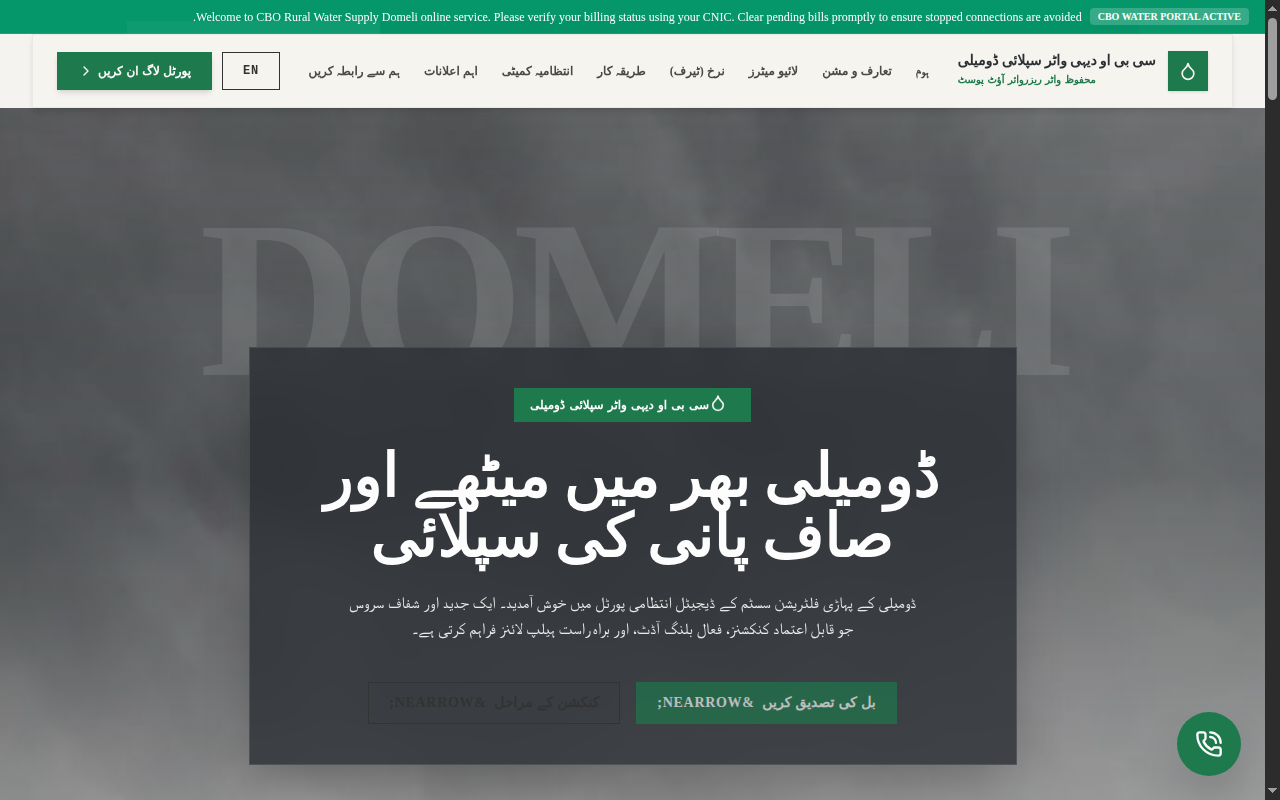
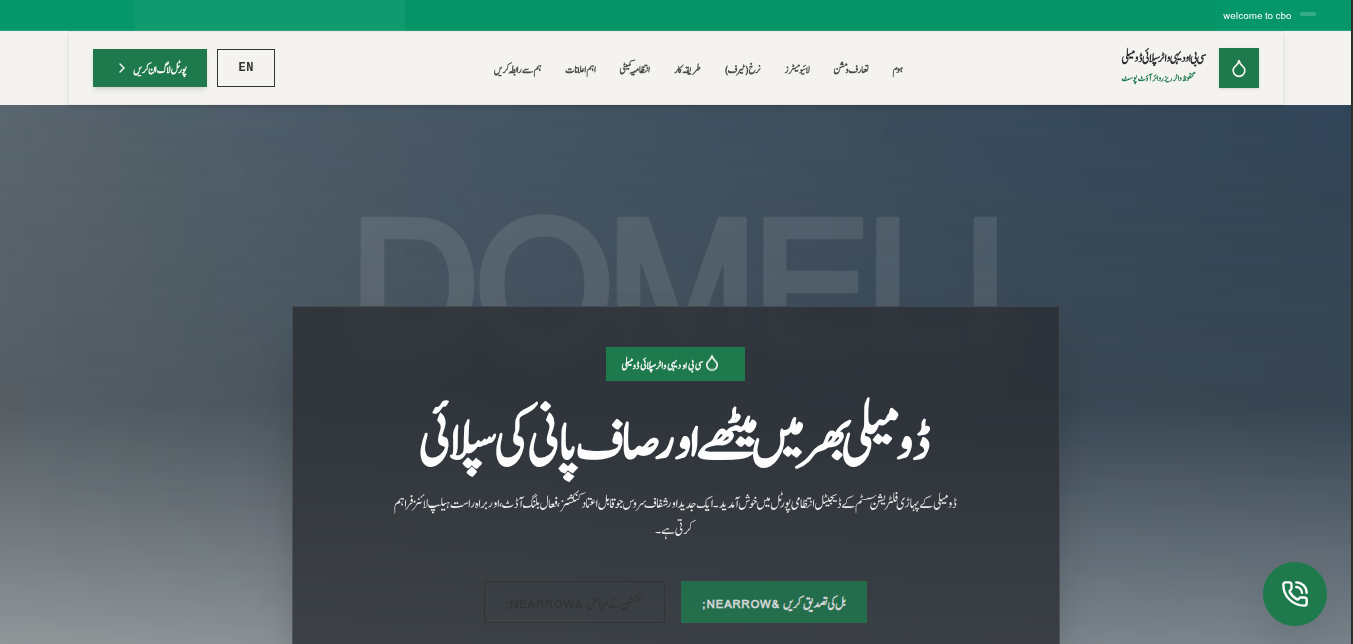
Upload captured project screenshots and link them to portfolio database

diff --git a/src/data/hassaanData.ts b/src/data/hassaanData.ts
@@ -162,7 +162,7 @@ export const staticProjects: LocalProject[] = [
     desc: "An autonomous agentic AI framework designed to orchestrate recursive prompt loops, validate cognitive LLM processes, and run automated script executions.",
     url: "https://github.com/hklogs/AutonAI",
     tech: ["Python", "TypeScript", "LangChain", "Gemini API"],
-    thumbnail: "/sentient_ai_thumb.jpg",
+    thumbnail: "/sentient_ai_thumb.png",
     usecase: "Enables developers to test autonomous AI workflows, execute local bash tasks safely, and debug agentic logic loops.",
     working: "Deploys LangChain agent execution nodes, hooks into local OS CLI bindings, and evaluates agent performance metrics."
   },
@@ -171,7 +171,7 @@ export const staticProjects: LocalProject[] = [
     desc: "A Progressive Web Application engineered for rural water scheme committees and consumer billing administrators. It manages consumer records, audits payment queues, tracks water tankers, and generates monthly billing schedules. Designed with an offline-first service worker, it allows rural operators to update ledger statuses in remote zones.",
     url: "https://github.com/hklogs/cboruralwater",
     tech: ["React", "Express", "Firebase", "PostgreSQL", "PWA"],
-    thumbnail: "/cbo_water_thumb.jpg",
+    thumbnail: "/cbo_water_thumb.png",
     usecase: "Facilitates clean water administration and consumer ledger coordination for remote rural committees, preventing billing disputes and operational leakages.",
     working: "Leverages an offline-first service worker to cache user schemas and ledger transactions locally using IndexedDB. Enqueues API payloads and syncs them automatically to a cloud PostgreSQL database via Firebase Function webhooks once network signals are detected."
   },
@@ -180,7 +180,7 @@ export const staticProjects: LocalProject[] = [
     desc: "A luxury real-estate listing marketplace designed for property dealers and home buyers. It showcases properties in a responsive grid, processes dynamic price filtrations, and coordinates agent tour schedules. It prevents overlapping calendar reservations and validates address listings using Google Maps API overlays.",
     url: "https://github.com/hklogs/ultd-realestate",
     tech: ["Next.js", "React", "Supabase", "Tailwind CSS"],
-    thumbnail: "",
+    thumbnail: "/ultd_realestate_thumb.png",
     usecase: "Allows luxury real estate brokers to showcase properties and coordinate customer visits without overlapping appointments or manual geolocation mapping.",
     working: "Utilizes Next.js App Router and Supabase Database for listing synchronization. Integrates Google Maps API overlays for property geolocation lookups and coordinates scheduling via database triggers to avoid slot double-booking."
   },
@@ -190,7 +190,7 @@ export const staticProjects: LocalProject[] = [
     url: "https://github.com/hklogs/ai-recruitment-auditor",
     vercelUrl: "https://ai-recruitment-auditor.vercel.app",
     tech: ["Next.js", "React", "Gemini API", "Tailwind CSS"],
-    thumbnail: "/recruiter_ai_thumb.jpg",
+    thumbnail: "/recruiter_ai_thumb.png",
     usecase: "Streamlines manual CV scanning for hiring leads, matching technical skills and producing customized SQA test criteria for applicant verification.",
     working: "Parses text from resume PDFs using a server-side parser. The structured CV data is matched against target job configurations via Gemini API prompts, calculating compatibility weightings and rendering SQA test matrices."
   },
@@ -255,7 +255,7 @@ export const staticProjects: LocalProject[] = [
     desc: "A task prioritization PWA built for software engineers and project managers. By evaluating importance and difficulty inputs, it calculates task weights to organize daily workflows. Designed with a clean minimal UI, it runs offline and automatically syncs local tasks with remote cloud targets.",
     url: "https://github.com/hklogs/Prioriti",
     tech: ["HTML5", "CSS3", "JavaScript", "PWA Workers"],
-    thumbnail: "/prioriti_task_thumb.jpg",
+    thumbnail: "/prioriti_task_thumb.png",
     usecase: "Helps busy engineers organize priority lists mathematically based on urgency and complexity matrices.",
     working: "Calculates task weight using a custom mathematical formula, updates local arrays in localStorage, and triggers service worker sync queues to update remote cloud databases."
   },
@@ -264,7 +264,7 @@ export const staticProjects: LocalProject[] = [
     desc: "A financial dashboard developed for individual budget coordinators. It tracks expense categories, generates monthly saving projections, and displays interactive charts. It checks transaction inputs against budget boundary limits to prevent budget overrun exceptions.",
     url: "https://github.com/hklogs/PocketMint",
     tech: ["React", "Vite", "Chart.js", "Tailwind CSS"],
-    thumbnail: "/pocketmint_tracker_thumb.jpg",
+    thumbnail: "/pocketmint_tracker_thumb.png",
     usecase: "Allows individuals to track categorize expenses and receive warnings before exceeding monthly budgets.",
     working: "Aggregates expense inputs, renders graphical timelines via Chart.js, and validates purchase values against budget thresholds to raise boundary exception alerts."
   },
@@ -319,7 +319,7 @@ export const staticProjects: LocalProject[] = [
     desc: "Crazy Closers (Genius Leads LLC) — Brand Gateway lead-gen & compliance site providing high-performance landing pages and input validation tests.",
     url: "https://github.com/hklogs/crazy-closers",
     tech: ["TypeScript", "Next.js", "Tailwind CSS", "Framer Motion"],
-    thumbnail: "",
+    thumbnail: "/primus_leads_thumb.png",
     usecase: "Generates verified B2B customer leads and automates initial outreach validation sequences for brand growth.",
     working: "Scrapes public directory listings, cleans contact data strings using local expressions, and personalizes outreach emails."
   },
@@ -328,7 +328,7 @@ export const staticProjects: LocalProject[] = [
     desc: "Enterprise administrative dashboard managing homeowner-contractor connections, subscription tiers, and payout ledgers.",
     url: "https://github.com/hklogs/referral-close-llc",
     tech: ["TypeScript", "React", "PostgreSQL", "Tailwind CSS"],
-    thumbnail: "",
+    thumbnail: "/primus_leads_llc_thumb.png",
     usecase: "Allows administrators of ReferralClose to monitor overall lead distributions, track payout cycles, and adjust tier parameters.",
     working: "Collects transaction records from contractor signups, updates PostgreSQL balances, and exposes metrics in a dashboard."
   },
@@ -382,7 +382,7 @@ export const staticProjects: LocalProject[] = [
     desc: "A customer-facing home services marketplace allowing homeowners to post project requirements, search trades, and book appointments.",
     url: "https://github.com/hklogs/referralclose-home-service-marketplace",
     tech: ["TypeScript", "Next.js", "Tailwind CSS", "Framer Motion"],
-    thumbnail: "/recruiter_ai_thumb.jpg",
+    thumbnail: "/referralclose_marketplace_thumb.png",
     usecase: "Allows homeowners to find local contractors for repairs and renovations without manual cold calling.",
     working: "Builds interactive multi-step project request wizard, saves details in database, and notifies matched trades using notification webhooks."
   },
@@ -391,7 +391,7 @@ export const staticProjects: LocalProject[] = [
     desc: "ReferralClose LLC — Home Service Marketplace. Premium homeowner lead-gen platform connecting verified local contractors with high-intent homeowners.",
     url: "https://github.com/hklogs/referralclose-llc-marketplace",
     tech: ["TypeScript", "Next.js", "Supabase", "Tailwind CSS"],
-    thumbnail: "/recruiter_ai_thumb.jpg",
+    thumbnail: "/referralclose_llc_marketplace_thumb.png",
     usecase: "Acts as the premium core lead-generation portal for ReferralClose LLC, capturing client requirements and qualifying leads.",
     working: "Validates incoming questionnaire responses using strict client-side schemas, handles location queries using maps API, and routes leads to Supabase databases."
   },
@@ -427,7 +427,7 @@ export const staticProjects: LocalProject[] = [
     desc: "Temporary deploy of UNLT LLC real estate site showcasing listing records and booking agent visits.",
     url: "https://github.com/hklogs/ultd-llc-real-estate",
     tech: ["TypeScript", "Next.js", "Supabase", "Tailwind CSS"],
-    thumbnail: "",
+    thumbnail: "/ultd_llc_real_estate_thumb.png",
     usecase: "Showcases luxury real estate listings for UNLT LLC, coordinating appointment requests and agent logs.",
     working: "Renders real-time listing records from Supabase tables, applying address geo-overlays and filtering properties dynamically."
   },
@@ -445,7 +445,7 @@ export const staticProjects: LocalProject[] = [
     desc: "A structural UI layout compiler pipeline. Translates sequential C-style UI structs serialized from C# into modern interactive React components styled with Tailwind CSS, utilizing a Python transpiler AST parser.",
     url: "https://github.com/hklogs/UiSpecificationEngine",
     tech: ["C#", "Python", "React", "Tailwind CSS", "AST Compiler"],
-    thumbnail: "/yuck_fou_thumb.jpg",
+    thumbnail: "/yuck_fou_thumb.png",
     usecase: "Enables legacy C/C++ or C# desktop UI blueprints to be transpiled into web-based react interfaces automatically, saving manual front-end development hours.",
     working: "C# program serializes component properties; Python script builds AST nodes, processes styles, maps dynamic state variables, and generates clean React JSX files."
   }